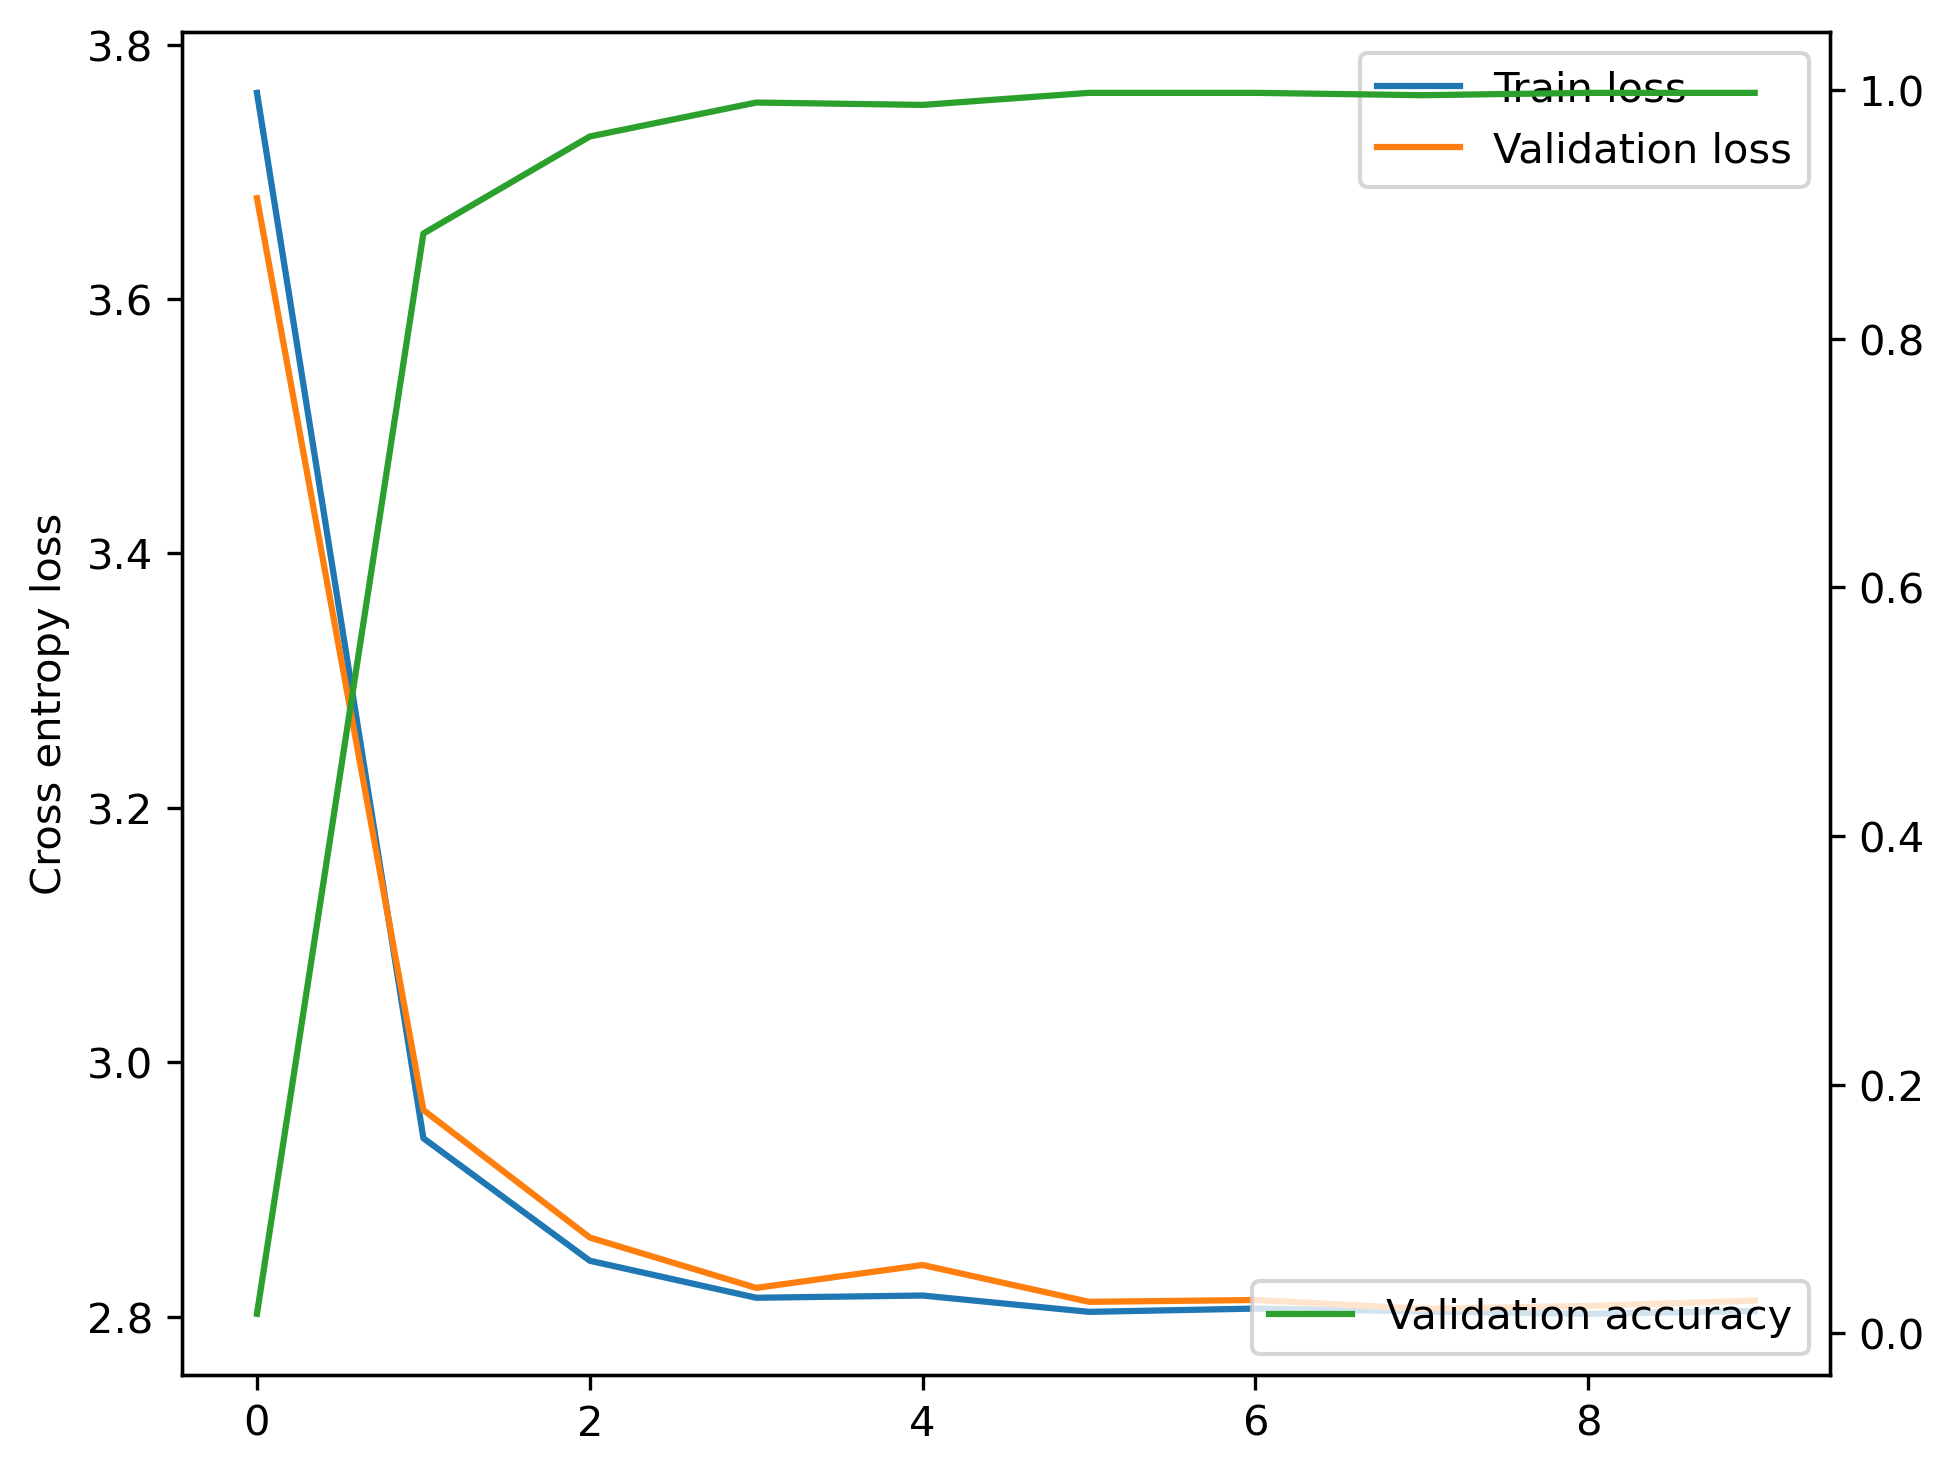
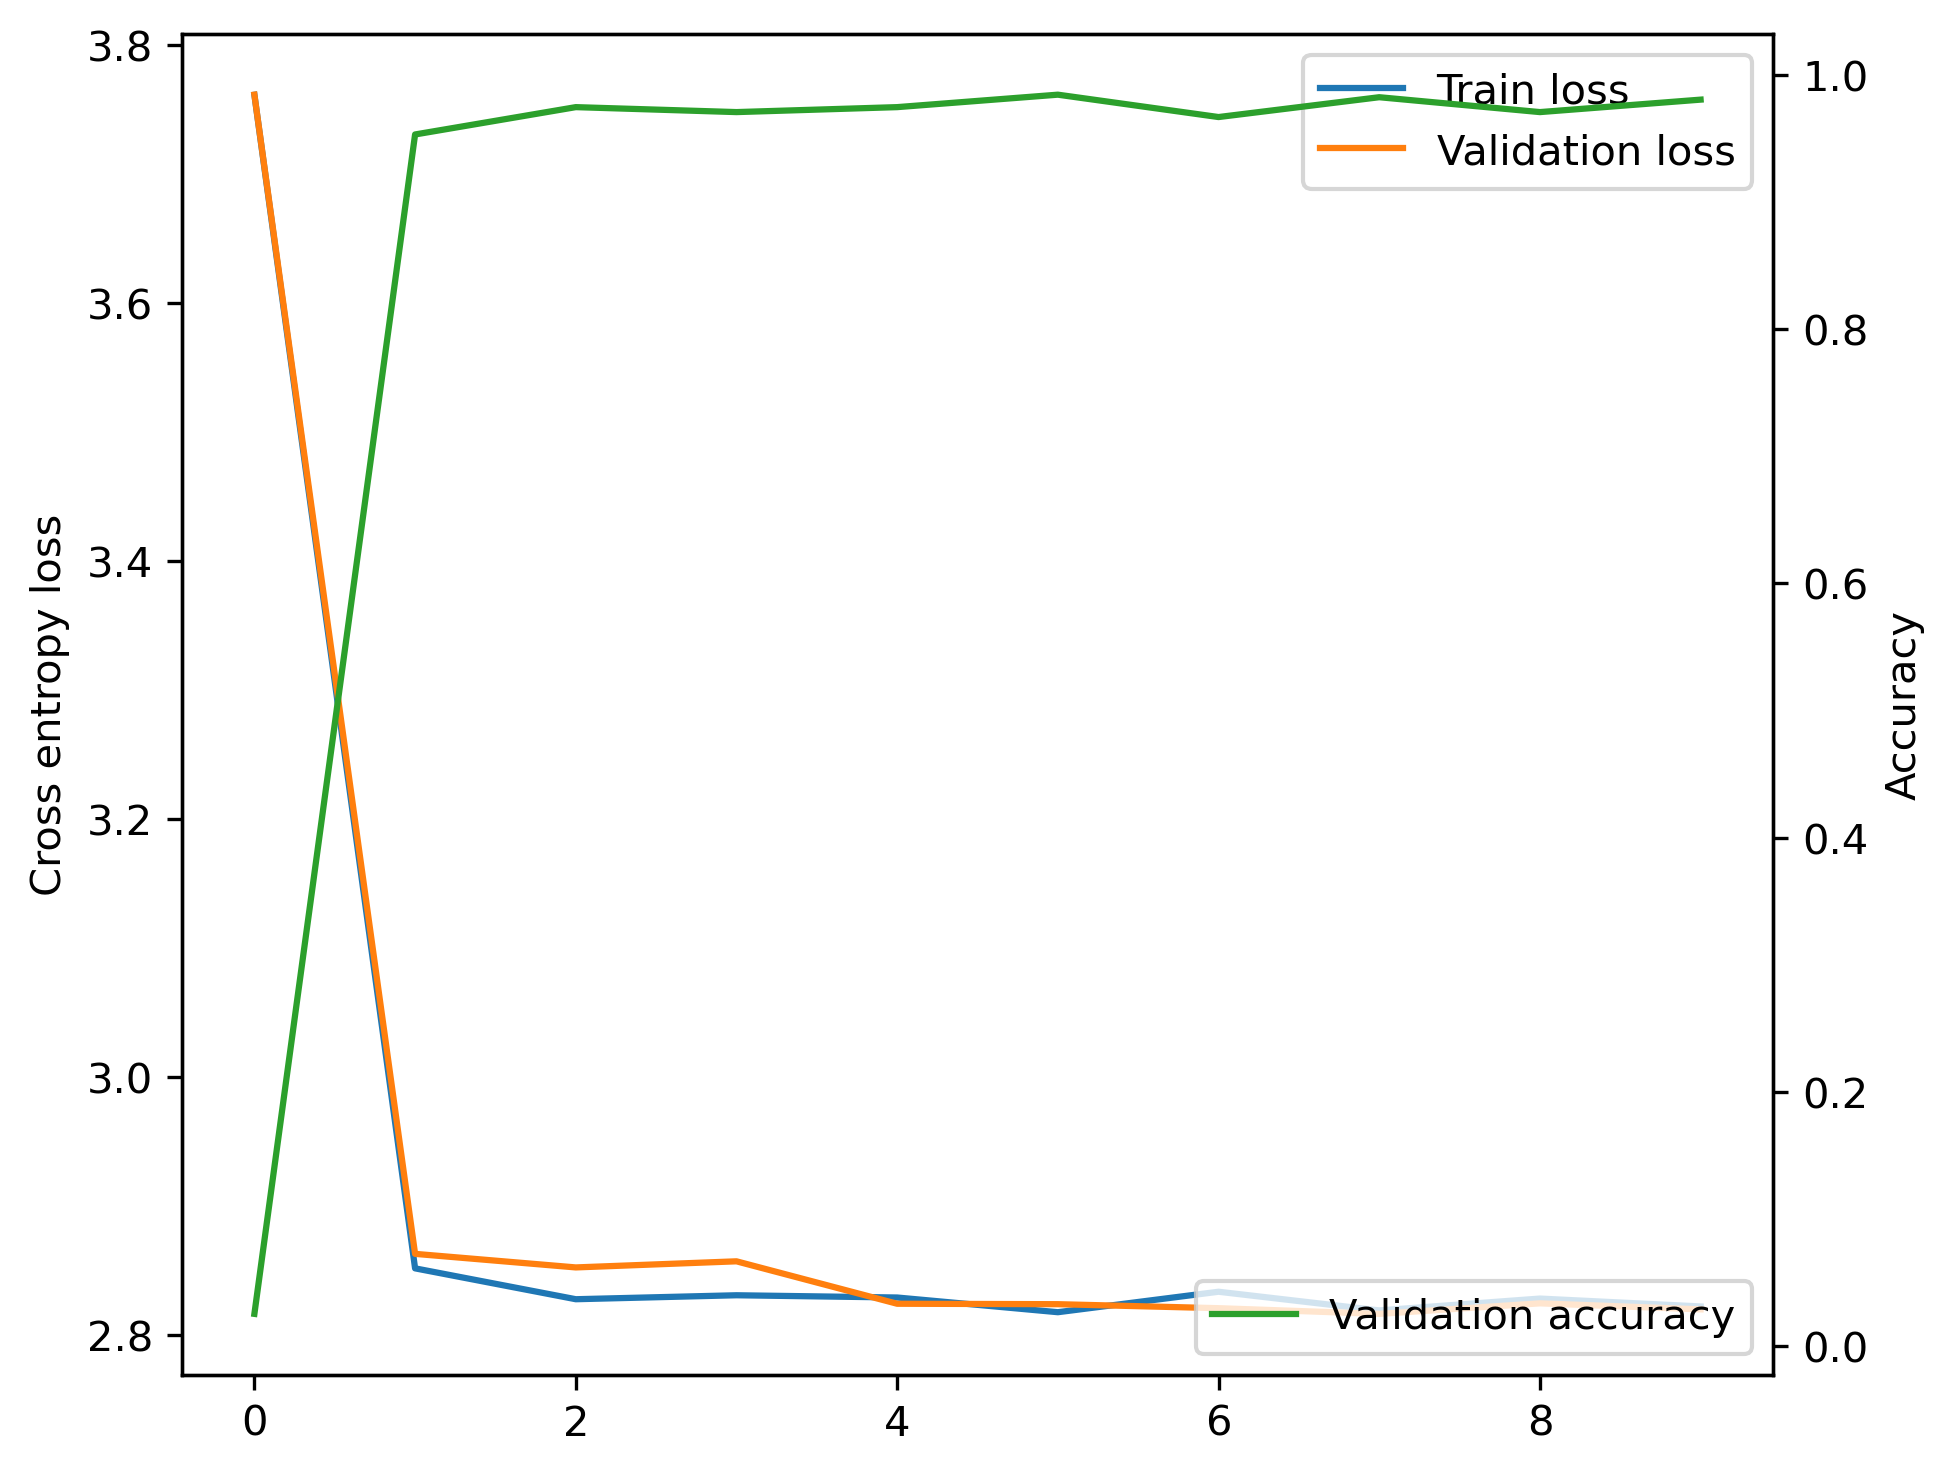
Worked on transformations applied to the images

diff --git a/data.py b/data.py
@@ -1,18 +1,61 @@
 import torch
 import torchvision
+from copy import deepcopy
 
 
-def load_data(batch_size):
-    transform = torchvision.transforms.Compose([
-        torchvision.transforms.ToTensor(),
-        torchvision.transforms.Resize((50, 50))
-    ])
+def load_data(batch_size: int):
+    # Apply the following transformations
+    transforms = [
+        torchvision.transforms.Compose([
+            torchvision.transforms.ToTensor(),
+            torchvision.transforms.Resize((50, 50))
+        ]),
+        # Brightness transformations
+        torchvision.transforms.Compose([
+            torchvision.transforms.ColorJitter(brightness=5),
+            torchvision.transforms.ToTensor(),
+            torchvision.transforms.Resize((50, 50))
+        ])#,
+        # Contrast transformations
+        # torchvision.transforms.Compose([
+        #     torchvision.transforms.ColorJitter(contrast=5),
+        #     torchvision.transforms.ToTensor(),
+        #     torchvision.transforms.Resize((50, 50))
+        # ]),
+        # Hue transformations
+        # torchvision.transforms.Compose([
+        #     torchvision.transforms.ColorJitter(hue=0.01),
+        #     torchvision.transforms.ToTensor(),
+        #     torchvision.transforms.Resize((50, 50))
+        # ]),
+        # Saturation transformations
+        # torchvision.transforms.Compose([
+        #     torchvision.transforms.ColorJitter(saturation=5),
+        #     torchvision.transforms.ToTensor(),
+        #     torchvision.transforms.Resize((50, 50))
+        # ])
+    ]
+
+    # Load the dataset and split it in a train and validation part
     dataset = torchvision.datasets.GTSRB(root="data/", download=True,
-                                         transform=transform)
-    train_set, val_set = torch.utils.data.random_split(dataset, [20000, 6640])
+                                         transform=transforms[0])
+    train_set_reference, val_set = torch.utils.data.random_split(
+        dataset, [int(len(dataset)*0.9), int(len(dataset)*0.1)]
+    )
+
+    # Apply transformations to the train set
+    transformed_train_sets = []
+    for transform in transforms:
+        train_set = deepcopy(train_set_reference)
+        train_set.dataset.transforms = transform
+        transformed_train_sets.append(train_set)
+
+    train_set = torch.utils.data.ConcatDataset(transformed_train_sets)
+
+    # Create dataloaders from datasets
     train_loader = torch.utils.data.DataLoader(train_set, batch_size=batch_size,
                                                shuffle=True)
     val_loader = torch.utils.data.DataLoader(val_set, batch_size=batch_size,
                                              shuffle=True)
-    
+
     return train_loader, val_loader

diff --git a/main.py b/main.py
@@ -29,6 +29,7 @@ def plot_loss(train_losses, val_losses, val_accuracy):
 
     sec_ax = ax.twinx()
     sec_ax.plot(val_accuracy, c="tab:green", label="Validation accuracy")
+    sec_ax.set_ylabel("Accuracy")
 
     plt.legend()
     plt.savefig("output/losses.png", dpi=300, bbox_inches="tight")
@@ -44,14 +45,13 @@ def get_n_params():
 def calc_accuracy(y: torch.Tensor, output: torch.Tensor):
     max_output_indices = output.max(dim=1)[1]
     accuracy = (y == max_output_indices).sum() / y.shape[0]
-    return round(accuracy.item(), 4)
+    return format(accuracy.item(), "0.4f")
 
 
 def train(model, train_loader, val_loader):
 
     optimizer = torch.optim.Adam(model.parameters(), lr=0.001)
     criterion = torch.nn.CrossEntropyLoss()
-    model.train()
 
     train_losses = []
     val_losses = []
@@ -61,8 +61,8 @@ def train(model, train_loader, val_loader):
 
         for idx, (x, y) in enumerate(train_loader):
 
+            model.train()
             x, y = x.cuda(), y.cuda()
-            learning_rate = round(optimizer.param_groups[0]['lr'], 4)
 
             optimizer.zero_grad()
             output = model(x)
@@ -72,6 +72,7 @@ def train(model, train_loader, val_loader):
 
             # Validation
             if idx % int(len(train_loader)) / 3 == 0:
+                model.eval()
                 x_val, y_val = next(iter(val_loader))
                 x_val, y_val = x_val.cuda(), y_val.cuda()
                 val_output = model(x_val)
@@ -81,11 +82,12 @@ def train(model, train_loader, val_loader):
                 val_losses.append(val_loss.item())
                 val_accuracy.append(calc_accuracy(y, output))
 
-                print(epoch, "\t",
-                      round(loss.item(), 4),
-                      round(val_loss.item(), 4), "\t",
-                      calc_accuracy(y, output),
-                      "\t", learning_rate
+                print(
+                    epoch, "\t",
+                    format(round(loss.item(), 4), "0.4f"),
+                    format(round(val_loss.item(), 4), "0.4f"), "\t",
+                    calc_accuracy(y, output), "\t",
+                    round(optimizer.param_groups[0]['lr'], 4)
                 )
 
 
@@ -95,6 +97,7 @@ def train(model, train_loader, val_loader):
 def main():
     torch.manual_seed(0)
     train_loader, val_loader = load_data(batch_size=BATCH_SIZE)
+
     get_n_params()
 
     model = Model().cuda()
